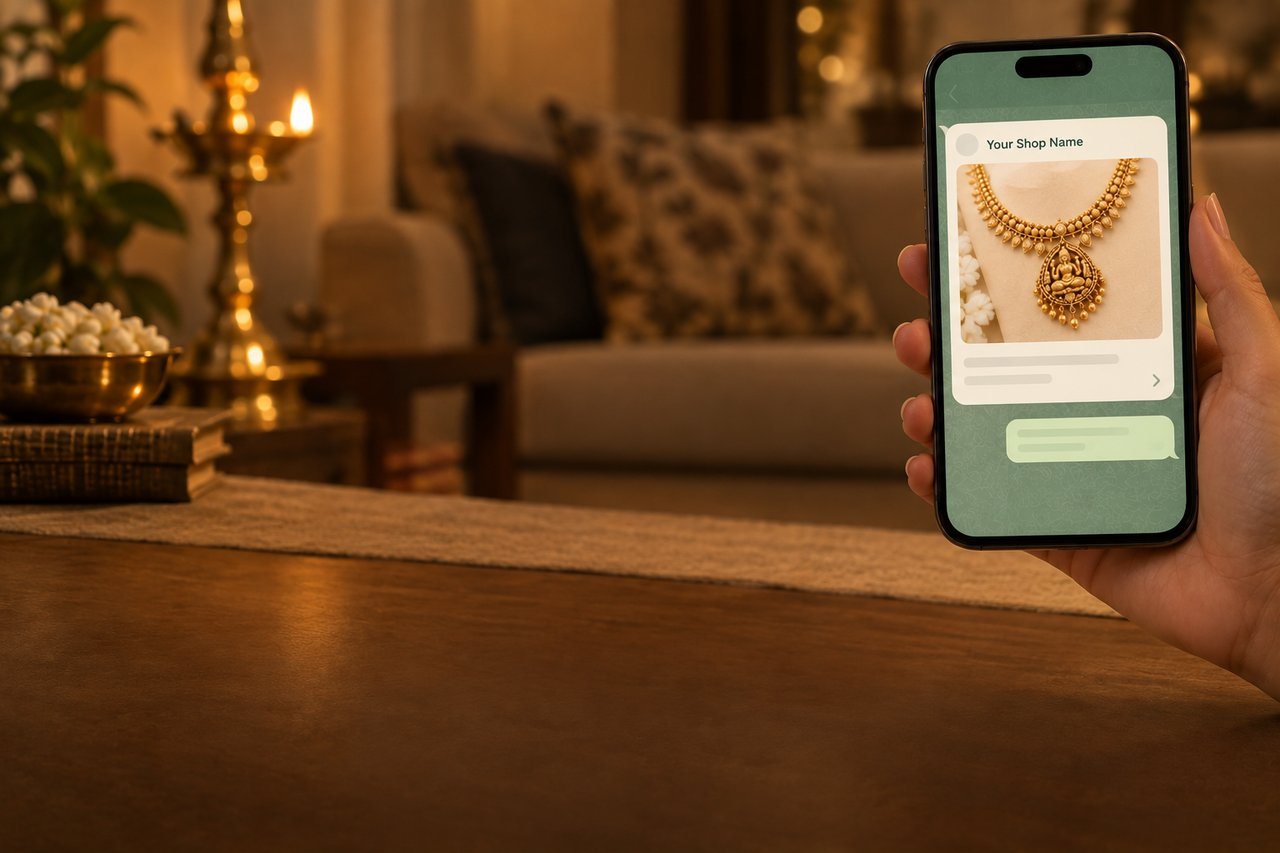
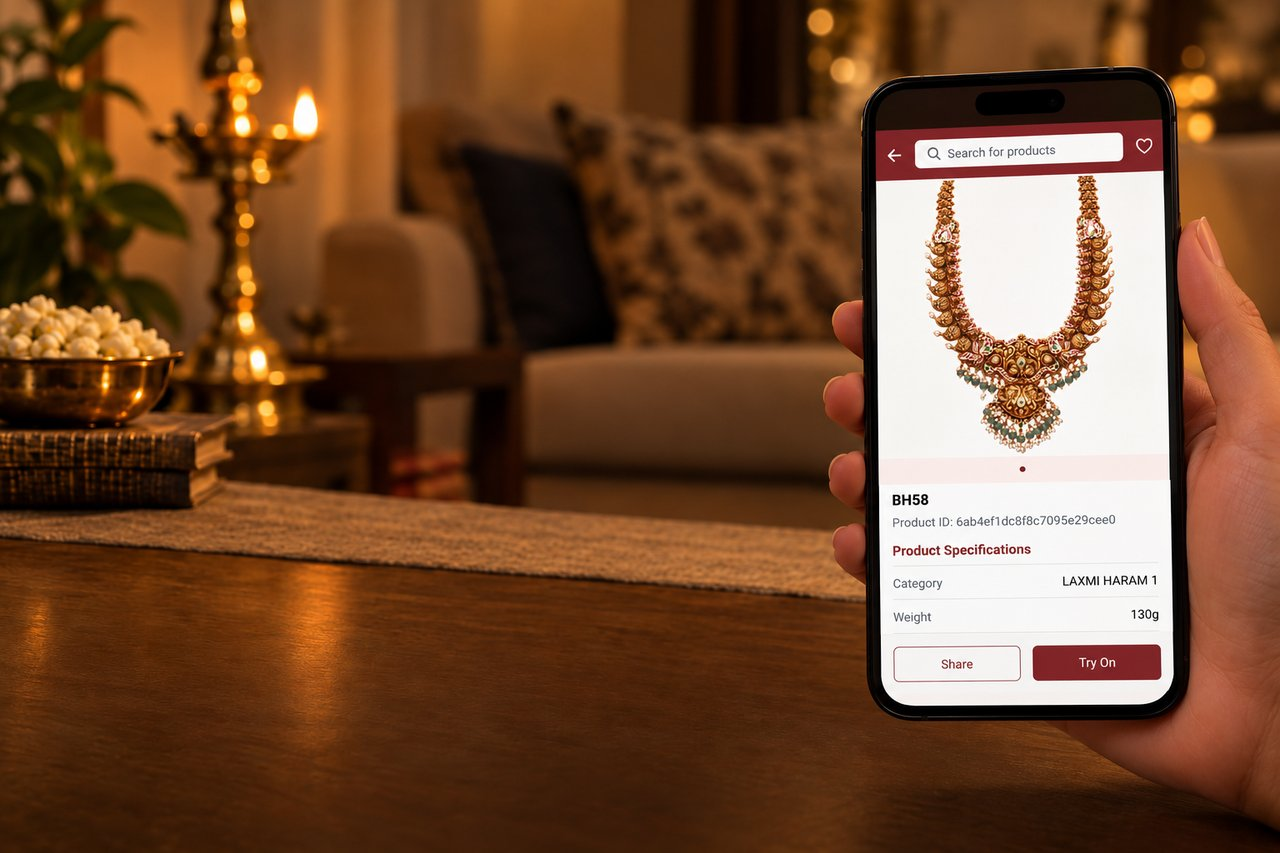
Replace "Share with your shop name" card photo
Swaps public/images/14.jpg for a new photo of a hand holding a phone
showing a necklace product page (with Share and Try On buttons) in a warm
living room. Resized to 1280x853 and encoded as progressive JPEG to match
the other cards and the site's encoding convention. Updated the alt text,
since the old one described a WhatsApp chat screen that's no longer shown.

diff --git a/src/components/FeaturesSection.tsx b/src/components/FeaturesSection.tsx
@@ -5,7 +5,7 @@ import { Icon } from './Icon';
 const features = [
   ['12.jpg', 'Hand holding a phone showing the LIVE TRY-ON screen with a gold necklace on a woman, and a row of other necklace options below, jewellery shop in the background', 'camera', 'LIVE TRY-ON', 'Let customers see how a design looks on them through their phone camera.'],
   ['13.jpg', 'Phone photographing a gold necklace with a crop frame on screen', 'upload', 'Upload your designs', 'Bring your own jewellery photos into the app. Ready for try-on after approval.'],
-  ['14.jpg', 'Phone showing a WhatsApp chat with a jewellery link and shop name', 'share', 'Share with your shop name', 'Send a jewellery link on WhatsApp. Customers try it from home.'],
+  ['14.jpg', 'Hand holding a phone showing a gold necklace product page with Share and Try On buttons, in a warm living room', 'share', 'Share with your shop name', 'Send a jewellery link on WhatsApp. Customers try it from home.'],
   ['15.jpg', 'Phone showing a grid of saved gold jewellery designs with hearts', 'heart', 'Save favourite designs', 'Keep selected designs together, ready to show when a customer asks.'],
 ] as const;
 
